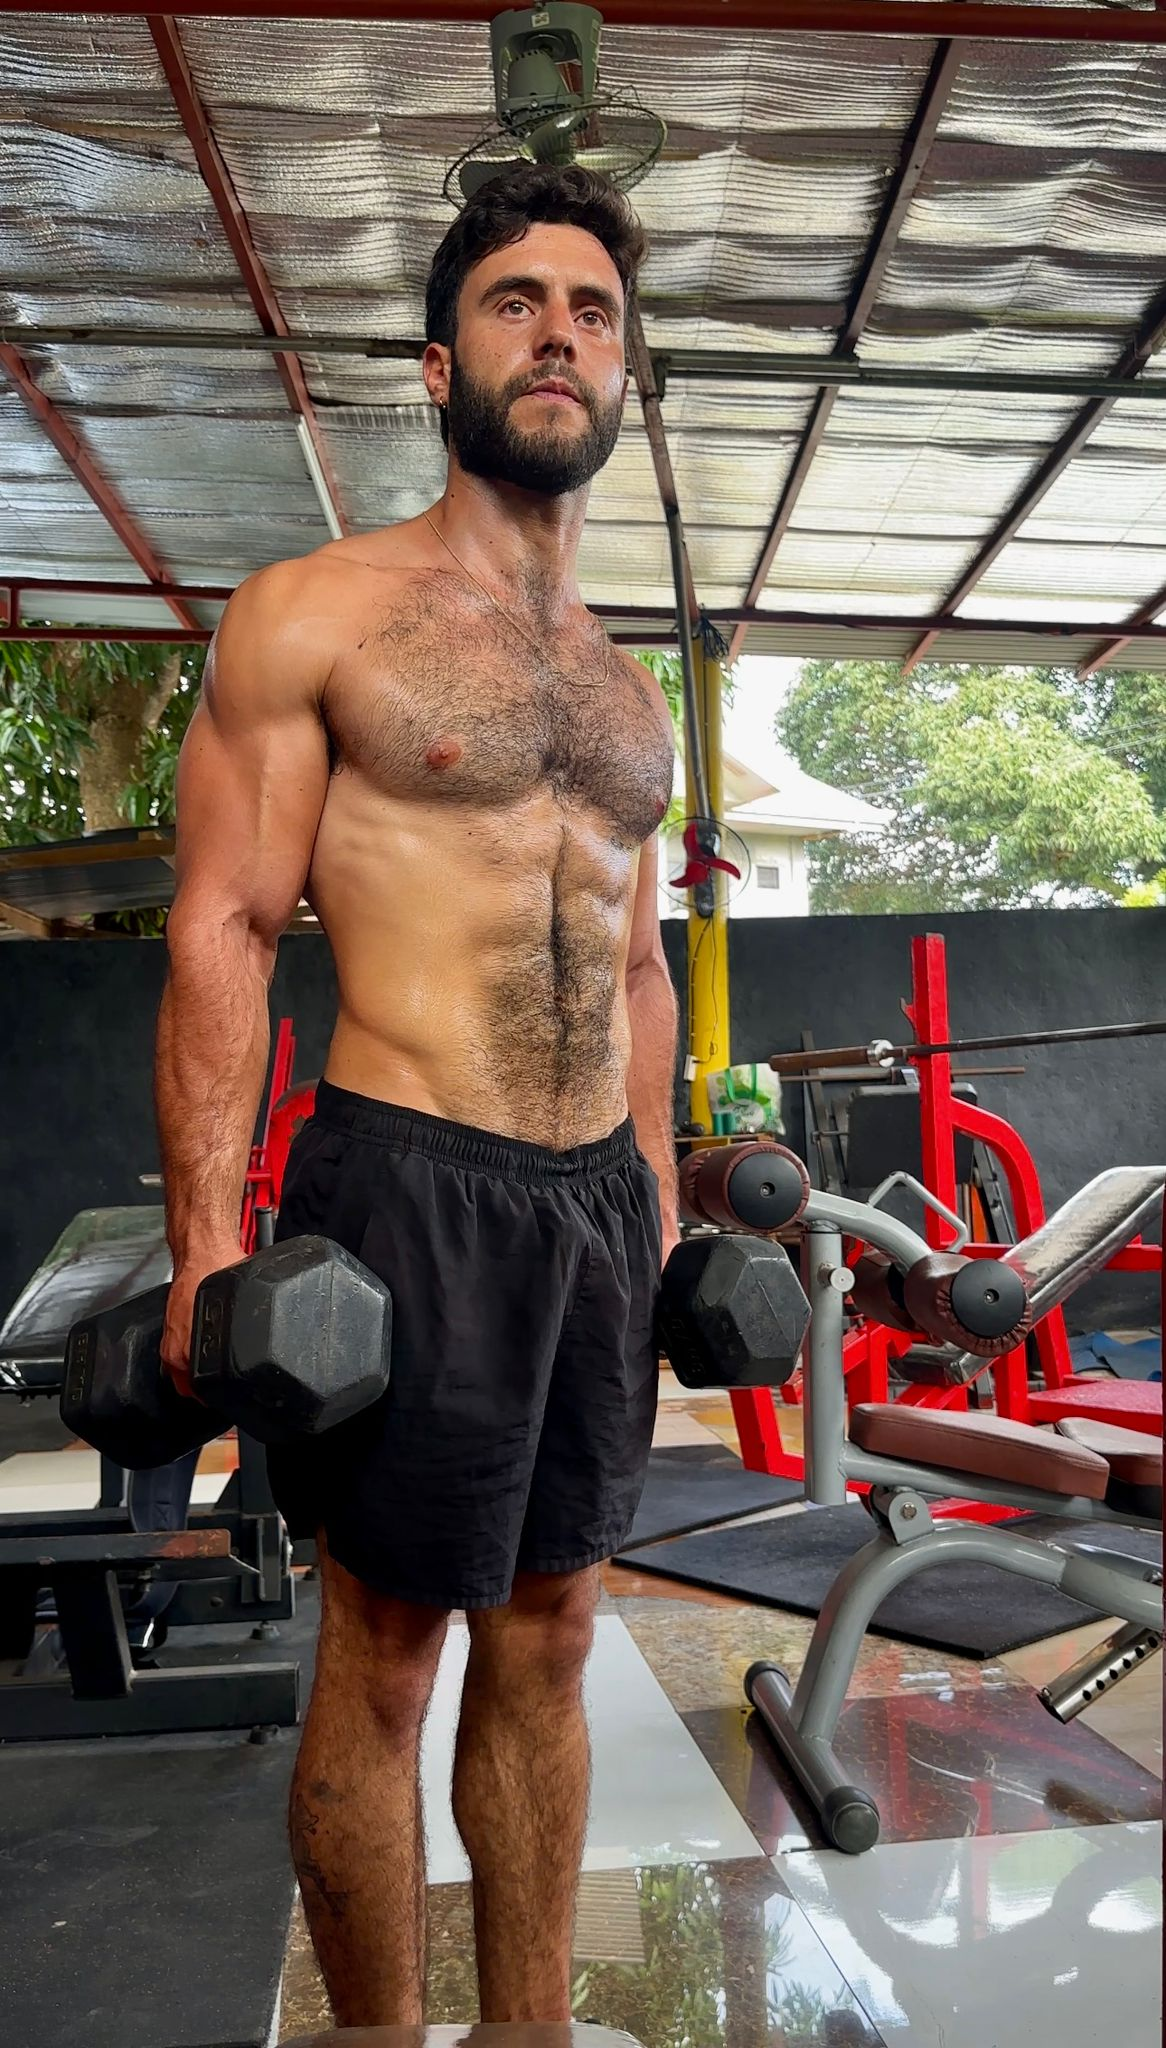
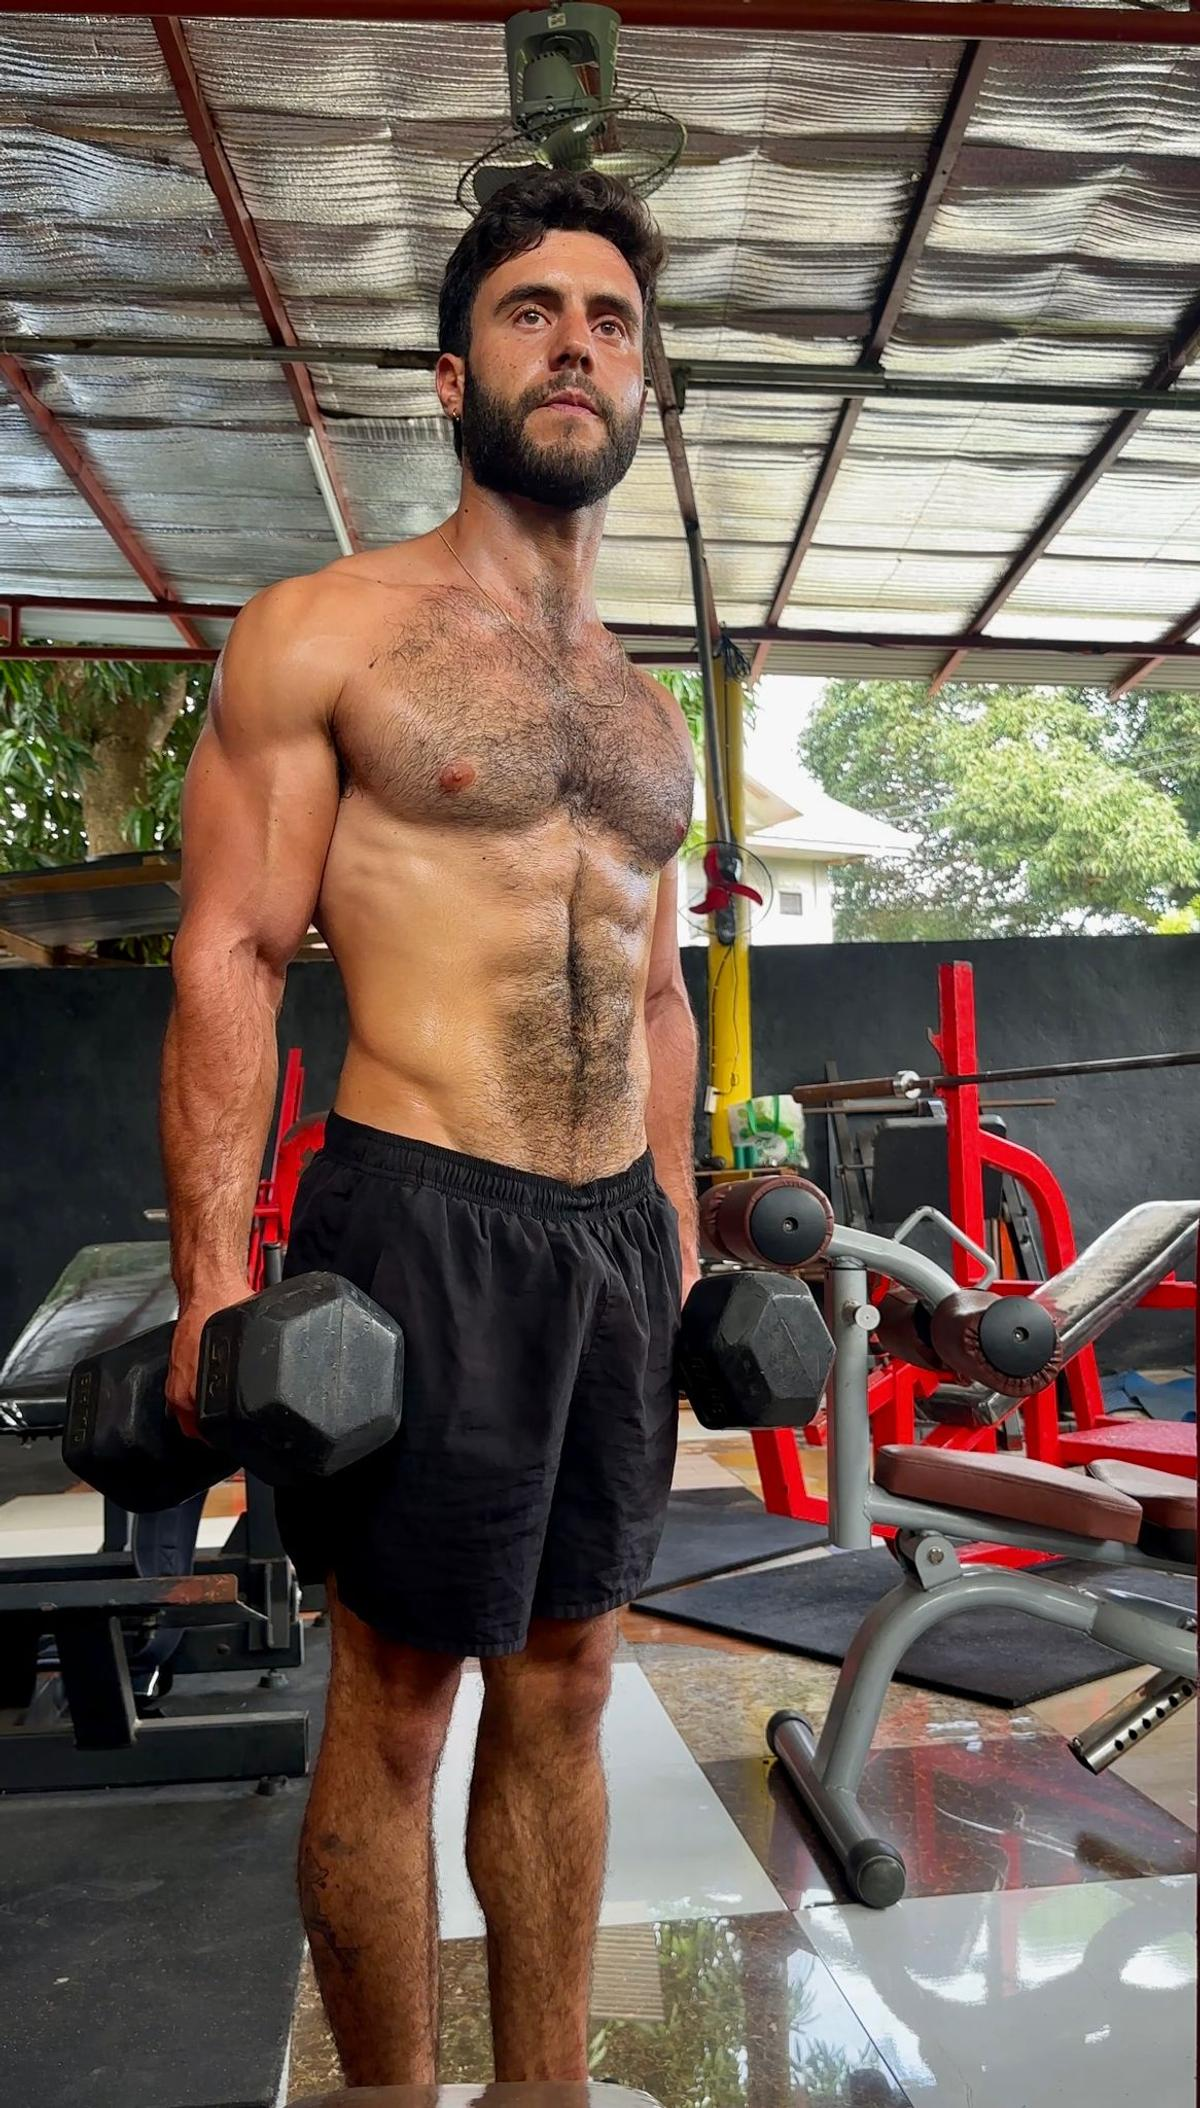
Replace testimonials with quote carousel and update profile details
- Convert testimonials from WhatsApp bubbles to quote carousel with
  swipe, auto-play, dots, and prev/next buttons
- Add social proof strip below hero (pull-up weight + half marathon time)
- Add vegan athlete, reserve officer details to about section
- Add nutrition guidance mention to training description
- Compress and resize all images (1200px, quality 75)
- Add Schema.org markup for SEO
- Add testimonial quote near contact form for social proof spread
- Update WhatsApp number and Instagram handle
- Fix contrast on hero description and "who it's for" section
- Fix gym photo object-position cropping

diff --git a/index.html b/index.html
@@ -9,7 +9,21 @@
   <meta property="og:description" content="תוכניות אימון מותאמות אישית. גוף בריא וחזק שלא רק נראה טוב, אלא גם מרגיש טוב.">
   <meta property="og:image" content="images/hero.jpg">
   <meta property="og:type" content="website">
+  <meta name="theme-color" content="#0A0A0A">
   <link rel="icon" href="images/logo.png" type="image/png">
+  <script type="application/ld+json">
+  {
+    "@context": "https://schema.org",
+    "@type": "ProfessionalService",
+    "name": "GFit - גד פנש",
+    "description": "מאמן כוח וריצה - תוכניות אימון מותאמות אישית",
+    "image": "images/hero.jpg",
+    "telephone": "+972-055-662-4880",
+    "areaServed": "ישראל",
+    "serviceType": ["Personal Training", "Strength Training", "Running Coaching"],
+    "sameAs": ["https://instagram.com/gadfenech"]
+  }
+  </script>
   <link rel="preconnect" href="https://fonts.googleapis.com">
   <link rel="preconnect" href="https://fonts.gstatic.com" crossorigin>
   <link href="https://fonts.googleapis.com/css2?family=Heebo:wght@400;600;700;800;900&family=Assistant:wght@400;600&display=swap" rel="stylesheet">
@@ -103,17 +117,17 @@
     <div class="container">
       <div class="about-layout reveal">
         <div class="about-photo">
-          <img src="images/track-golden.jpg" alt="גד פנש באימון">
+          <img src="images/track-golden.jpg" alt="גד פנש - מאמן כוח וריצה, הולך ליד מסלול ריצה בשקיעה" loading="lazy">
         </div>
         <div class="about-text">
           <span class="section-tag">קצת עליי</span>
           <h2 class="section-title">גד פנש</h2>
-          <h3 class="about-role">מאמן כוח וריצה · 🌱 ספורטאי טבעוני · קרית שמונה 📍</h3>
+          <h3 class="about-role">מאמן כוח וריצה · 🌱 ספורטאי טבעוני · קצין במילואים · צפון הארץ 📍</h3>
           <p>
-            אני עובד עם אנשים שרוצים להתחזק, להשתפר בריצה ולבנות גוף בריא ואתלטי.
+            בן 26, קצין במילואים, ספורטאי טבעוני. אני עובד עם אנשים שרוצים להתחזק, להשתפר בריצה ולבנות גוף בריא ואתלטי.
           </p>
           <p>
-            האימונים שלי משלבים בין עבודה עם משקלי גוף, אימוני כוח בחדר כושר, וריצה ואימוני סיבולת.
+            האימונים שלי משלבים בין עבודה עם משקלי גוף, אימוני כוח בחדר כושר, ריצה ואימוני סיבולת — לצד הכוונה תזונתית שמתאימה לאורח החיים שלכם.
           </p>
           <p>
             אבל הדבר הכי חשוב בעיניי הוא לא סוג האימון —
@@ -335,7 +349,8 @@
             אם אתם רוצים להתחזק, להשתפר בריצה ולבנות גוף חזק ובריא —
             השאירו פרטים ונקבע שיחת ייעוץ קצרה.
           </p>
-          <a href="https://wa.me/972XXXXXXXXX?text=%D7%94%D7%99%D7%99%20%D7%92%D7%93%2C%20%D7%90%D7%A9%D7%9E%D7%97%20%D7%9C%D7%A9%D7%99%D7%97%D7%AA%20%D7%99%D7%99%D7%A2%D7%95%D7%A5" class="whatsapp-direct" target="_blank" rel="noopener">
+          <p class="contact-quote">"הפכת אותי למשהו שבחיים לא חשבתי שאהיה"</p>
+          <a href="https://wa.me/9720556624880?text=%D7%94%D7%99%D7%99%20%D7%92%D7%93%2C%20%D7%90%D7%A9%D7%9E%D7%97%20%D7%9C%D7%A9%D7%99%D7%97%D7%AA%20%D7%99%D7%99%D7%A2%D7%95%D7%A5" class="whatsapp-direct" target="_blank" rel="noopener">
             <svg width="24" height="24" viewBox="0 0 24 24" fill="currentColor"><path d="M17.472 14.382c-.297-.149-1.758-.867-2.03-.967-.273-.099-.471-.148-.67.15-.197.297-.767.966-.94 1.164-.173.199-.347.223-.644.075-.297-.15-1.255-.463-2.39-1.475-.883-.788-1.48-1.761-1.653-2.059-.173-.297-.018-.458.13-.606.134-.133.298-.347.446-.52.149-.174.198-.298.298-.497.099-.198.05-.371-.025-.52-.075-.149-.669-1.612-.916-2.207-.242-.579-.487-.5-.669-.51-.173-.008-.371-.01-.57-.01-.198 0-.52.074-.792.372-.272.297-1.04 1.016-1.04 2.479 0 1.462 1.065 2.875 1.213 3.074.149.198 2.096 3.2 5.077 4.487.709.306 1.262.489 1.694.625.712.227 1.36.195 1.871.118.571-.085 1.758-.719 2.006-1.413.248-.694.248-1.289.173-1.413-.074-.124-.272-.198-.57-.347m-5.421 7.403h-.004a9.87 9.87 0 01-5.031-1.378l-.361-.214-3.741.982.998-3.648-.235-.374a9.86 9.86 0 01-1.51-5.26c.001-5.45 4.436-9.884 9.888-9.884 2.64 0 5.122 1.03 6.988 2.898a9.825 9.825 0 012.893 6.994c-.003 5.45-4.437 9.884-9.885 9.884m8.413-18.297A11.815 11.815 0 0012.05 0C5.495 0 .16 5.335.157 11.892c0 2.096.547 4.142 1.588 5.945L.057 24l6.305-1.654a11.882 11.882 0 005.683 1.448h.005c6.554 0 11.89-5.335 11.893-11.893a11.821 11.821 0 00-3.48-8.413z"/></svg>
             <span>שלחו הודעה בוואטסאפ</span>
           </a>
@@ -373,7 +388,7 @@
           <a href="https://instagram.com/gadfenech" target="_blank" rel="noopener" aria-label="אינסטגרם">
             <svg width="24" height="24" viewBox="0 0 24 24" fill="none" stroke="currentColor" stroke-width="2" stroke-linecap="round" stroke-linejoin="round"><rect x="2" y="2" width="20" height="20" rx="5" ry="5"/><path d="M16 11.37A4 4 0 1 1 12.63 8 4 4 0 0 1 16 11.37z"/><line x1="17.5" y1="6.5" x2="17.51" y2="6.5"/></svg>
           </a>
-          <a href="https://wa.me/972XXXXXXXXX" target="_blank" rel="noopener" aria-label="וואטסאפ">
+          <a href="https://wa.me/9720556624880" target="_blank" rel="noopener" aria-label="וואטסאפ">
             <svg width="24" height="24" viewBox="0 0 24 24" fill="currentColor"><path d="M17.472 14.382c-.297-.149-1.758-.867-2.03-.967-.273-.099-.471-.148-.67.15-.197.297-.767.966-.94 1.164-.173.199-.347.223-.644.075-.297-.15-1.255-.463-2.39-1.475-.883-.788-1.48-1.761-1.653-2.059-.173-.297-.018-.458.13-.606.134-.133.298-.347.446-.52.149-.174.198-.298.298-.497.099-.198.05-.371-.025-.52-.075-.149-.669-1.612-.916-2.207-.242-.579-.487-.5-.669-.51-.173-.008-.371-.01-.57-.01-.198 0-.52.074-.792.372-.272.297-1.04 1.016-1.04 2.479 0 1.462 1.065 2.875 1.213 3.074.149.198 2.096 3.2 5.077 4.487.709.306 1.262.489 1.694.625.712.227 1.36.195 1.871.118.571-.085 1.758-.719 2.006-1.413.248-.694.248-1.289.173-1.413-.074-.124-.272-.198-.57-.347m-5.421 7.403h-.004a9.87 9.87 0 01-5.031-1.378l-.361-.214-3.741.982.998-3.648-.235-.374a9.86 9.86 0 01-1.51-5.26c.001-5.45 4.436-9.884 9.888-9.884 2.64 0 5.122 1.03 6.988 2.898a9.825 9.825 0 012.893 6.994c-.003 5.45-4.437 9.884-9.885 9.884m8.413-18.297A11.815 11.815 0 0012.05 0C5.495 0 .16 5.335.157 11.892c0 2.096.547 4.142 1.588 5.945L.057 24l6.305-1.654a11.882 11.882 0 005.683 1.448h.005c6.554 0 11.89-5.335 11.893-11.893a11.821 11.821 0 00-3.48-8.413z"/></svg>
           </a>
         </div>
@@ -385,7 +400,7 @@
   </footer>
 
   <!-- Floating WhatsApp Button -->
-  <a href="https://wa.me/972XXXXXXXXX?text=%D7%94%D7%99%D7%99%20%D7%92%D7%93%2C%20%D7%90%D7%A9%D7%9E%D7%97%20%D7%9C%D7%A9%D7%99%D7%97%D7%AA%20%D7%99%D7%99%D7%A2%D7%95%D7%A5"
+  <a href="https://wa.me/9720556624880?text=%D7%94%D7%99%D7%99%20%D7%92%D7%93%2C%20%D7%90%D7%A9%D7%9E%D7%97%20%D7%9C%D7%A9%D7%99%D7%97%D7%AA%20%D7%99%D7%99%D7%A2%D7%95%D7%A5"
      class="whatsapp-float" target="_blank" rel="noopener" aria-label="שלחו הודעה בוואטסאפ">
     <svg width="28" height="28" viewBox="0 0 24 24" fill="currentColor"><path d="M17.472 14.382c-.297-.149-1.758-.867-2.03-.967-.273-.099-.471-.148-.67.15-.197.297-.767.966-.94 1.164-.173.199-.347.223-.644.075-.297-.15-1.255-.463-2.39-1.475-.883-.788-1.48-1.761-1.653-2.059-.173-.297-.018-.458.13-.606.134-.133.298-.347.446-.52.149-.174.198-.298.298-.497.099-.198.05-.371-.025-.52-.075-.149-.669-1.612-.916-2.207-.242-.579-.487-.5-.669-.51-.173-.008-.371-.01-.57-.01-.198 0-.52.074-.792.372-.272.297-1.04 1.016-1.04 2.479 0 1.462 1.065 2.875 1.213 3.074.149.198 2.096 3.2 5.077 4.487.709.306 1.262.489 1.694.625.712.227 1.36.195 1.871.118.571-.085 1.758-.719 2.006-1.413.248-.694.248-1.289.173-1.413-.074-.124-.272-.198-.57-.347m-5.421 7.403h-.004a9.87 9.87 0 01-5.031-1.378l-.361-.214-3.741.982.998-3.648-.235-.374a9.86 9.86 0 01-1.51-5.26c.001-5.45 4.436-9.884 9.888-9.884 2.64 0 5.122 1.03 6.988 2.898a9.825 9.825 0 012.893 6.994c-.003 5.45-4.437 9.884-9.885 9.884m8.413-18.297A11.815 11.815 0 0012.05 0C5.495 0 .16 5.335.157 11.892c0 2.096.547 4.142 1.588 5.945L.057 24l6.305-1.654a11.882 11.882 0 005.683 1.448h.005c6.554 0 11.89-5.335 11.893-11.893a11.821 11.821 0 00-3.48-8.413z"/></svg>
   </a>

diff --git a/styles.css b/styles.css
@@ -405,9 +405,10 @@ ul {
 
 .hero-desc {
   font-size: 17px;
-  color: var(--text-secondary);
+  color: #d0d0d0;
   margin-bottom: 36px;
   line-height: 1.8;
+  text-shadow: 0 2px 8px rgba(0, 0, 0, 0.7);
 }
 
 .scroll-indicator {
@@ -675,6 +676,14 @@ ul {
   z-index: 1;
 }
 
+#who.section-bg {
+  background-position: center 60%;
+}
+
+#who .section-bg-overlay {
+  background: rgba(10, 10, 10, 0.75);
+}
+
 #contact.section-bg {
   background-size: cover;
   background-position: center 30%;
@@ -865,6 +874,16 @@ ul {
   font-size: 18px;
   margin-bottom: 28px;
   line-height: 1.8;
+}
+
+.contact-quote {
+  font-family: var(--font-heading);
+  font-style: italic;
+  font-weight: 600;
+  font-size: 16px;
+  color: var(--green);
+  margin-bottom: 24px;
+  opacity: 0.85;
 }
 
 .whatsapp-direct {

diff --git a/script.js b/script.js
@@ -84,7 +84,7 @@ document.addEventListener('DOMContentLoaded', () => {
     if (message) waMessage += `\n${message}`;
 
     // Replace with Gad's actual number
-    const waNumber = '972XXXXXXXXX';
+    const waNumber = '9720556624880';
     const waUrl = `https://wa.me/${waNumber}?text=${encodeURIComponent(waMessage)}`;
 
     window.open(waUrl, '_blank');
